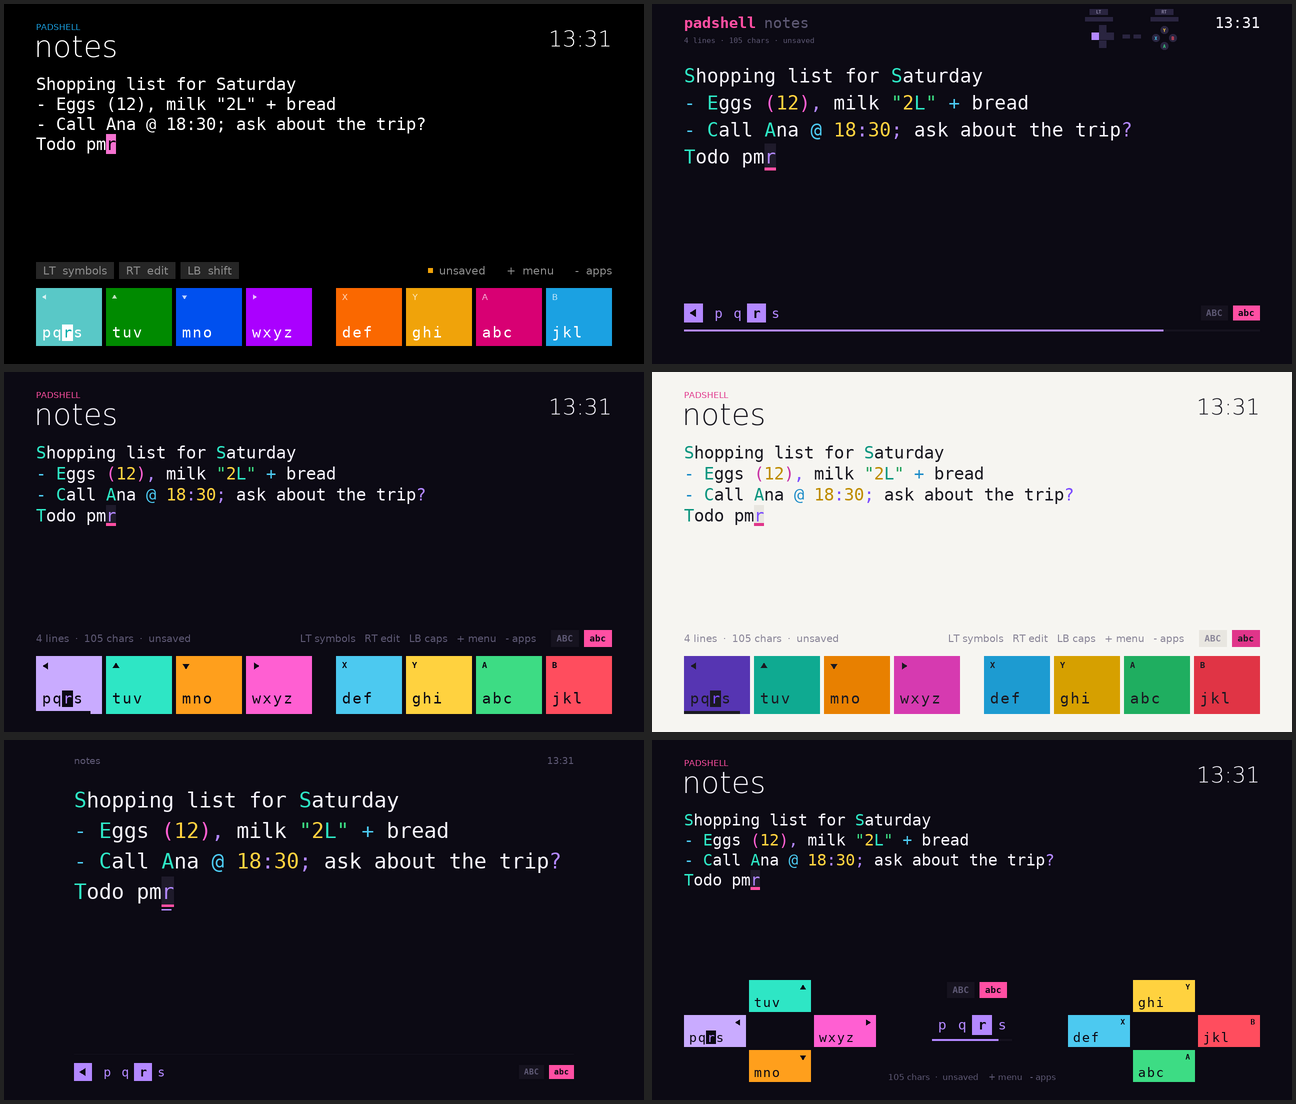
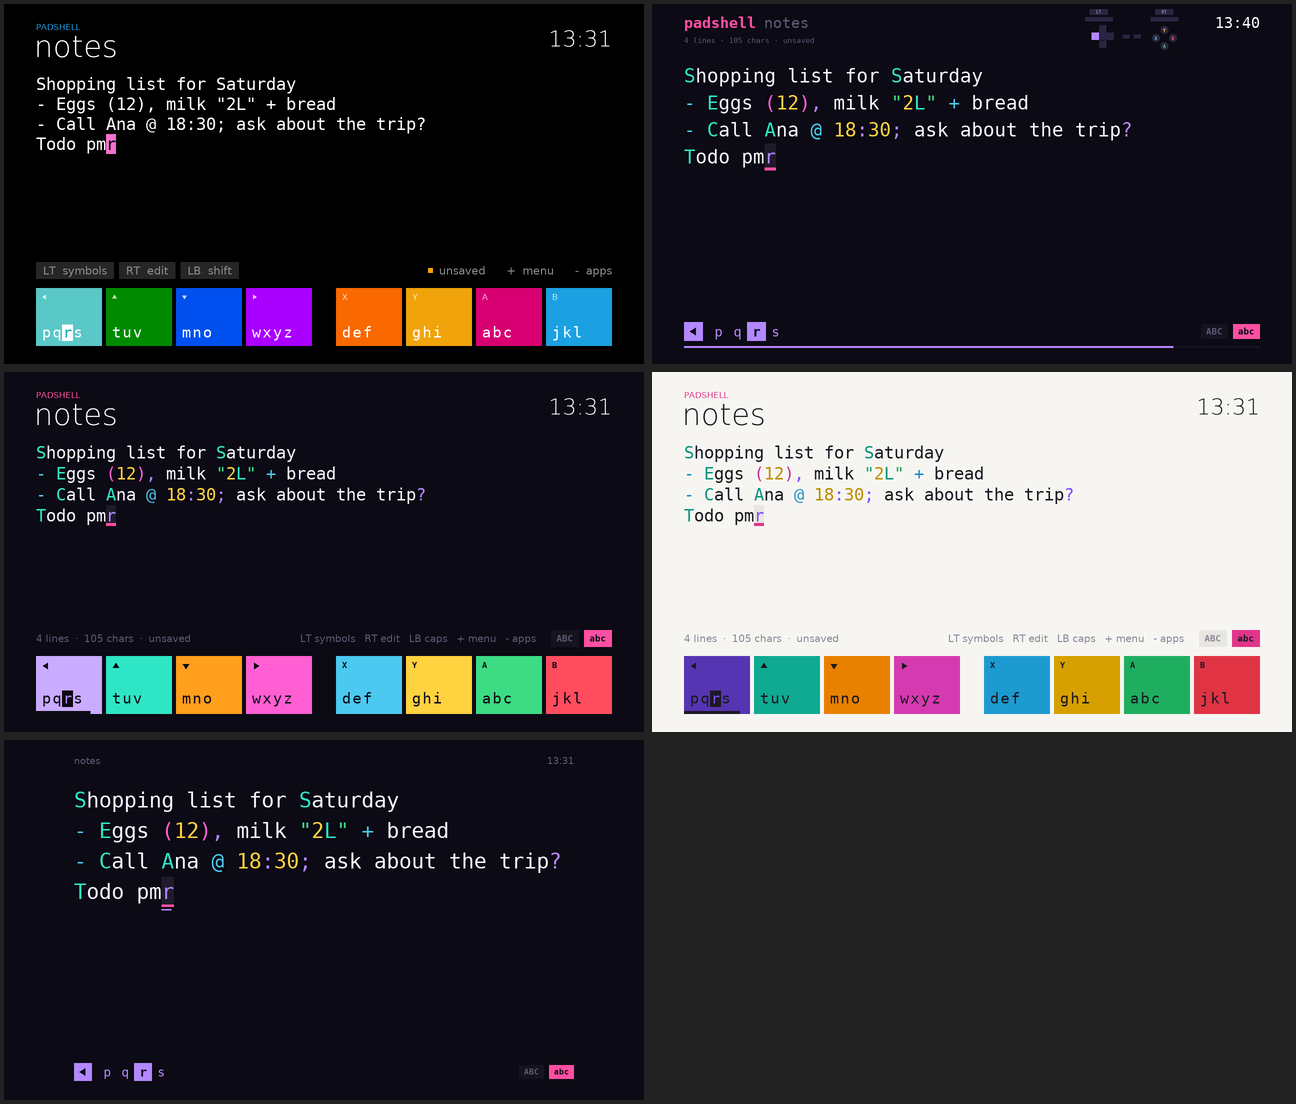
Remove the cross skin; move ameno's status bar down to the margin
The ameno badges row now sits just inside the TV-safe bottom margin with
the commit timer below it, and the document gains a line.

diff --git a/src/skins/ameno.cpp b/src/skins/ameno.cpp
@@ -12,7 +12,8 @@ using namespace fam;
 const Palette& P = darkPalette();
 const char* kMono = "DejaVuSansMono.ttf";
 const char* kBold = "DejaVuSansMono-Bold.ttf";
-constexpr int kM = 64;  // side margin
+constexpr int kM = 64;        // side margin
+constexpr int kStatusY = 640;  // badges row; timer below it, just inside the TV-safe bottom margin
 
 class Ameno : public Skin {
 public:
@@ -40,13 +41,13 @@ public:
                P.muted);
 
         Font& f = g.font(kMono, 38);
-        document(g, {kM, 117, a.w, 427}, v, P, {&f, 54, 6});
+        document(g, {kM, 117, a.w, 486}, v, P, {&f, 54, 6});
 
         status(g, v);
     }
 
     void menu(Gfx& g, const std::string& title, const std::vector<std::string>& items, int sel) override {
-        g.fill({0, 100, Gfx::W, 467}, P.bg);
+        g.fill({0, 100, Gfx::W, kStatusY - 116}, P.bg);
         g.draw(g.font(kMono, 21), kM, 127, title, P.muted);
         Font& f = g.font(kMono, 38), &fb = g.font(kBold, 38);
         int y = 180;
@@ -57,9 +58,9 @@ public:
             y += 72;
         }
         // Status line becomes the menu's hints.
-        g.fill({0, 587, Gfx::W, 133}, P.bg);
+        g.fill({0, kStatusY - 16, Gfx::W, Gfx::H - kStatusY + 16}, P.bg);
         Font& sf = g.font(kMono, 20);
-        int x = kM, y0 = 603, s = 30;
+        int x = kM, y0 = kStatusY, s = 30;
         auto hint = [&](std::initializer_list<Btn> bs, const char* what) {
             for (Btn b : bs) { badge(g, x, y0, s, b, buttonColor(b), P.dark); x += s + 4; }
             x += 4 + g.draw(sf, x + 4, y0 + (s - sf.lineH()) / 2, what, P.text) + 24;
@@ -72,7 +73,7 @@ public:
 
 private:
     void status(Gfx& g, const EditorView& v) {
-        const int y = 603, s = 30;
+        const int y = kStatusY, s = 30;
         Font& f = g.font(kMono, 20);
         if (v.tap->hasPending()) {
             Btn b = pendingButton(v);
@@ -84,9 +85,9 @@ private:
         modeTags(g, Gfx::W - kM, y, s, g.font(kBold, 18), v, P);
 
         // Commit timer.
-        g.fill({kM, 651, Gfx::W - 2 * kM, 4}, P.surface);
+        g.fill({kM, kStatusY + 44, Gfx::W - 2 * kM, 4}, P.surface);
         if (float t = timerLeft(v); t > 0)
-            g.fill({kM, 651, (int)((Gfx::W - 2 * kM) * t), 4}, buttonColor(pendingButton(v)));
+            g.fill({kM, kStatusY + 44, (int)((Gfx::W - 2 * kM) * t), 4}, buttonColor(pendingButton(v)));
     }
 
     // A small controller diagram; held buttons light up in their colour.

diff --git a/src/skin.cpp b/src/skin.cpp
@@ -42,7 +42,6 @@ Skin* makeAmeno();
 Skin* makeKeys();
 Skin* makeLight();
 Skin* makeFocus();
-Skin* makeCross();
 
 namespace skins {
 namespace {
@@ -52,7 +51,7 @@ std::string g_path;
 
 const std::vector<Skin*>& all() {
     static const std::vector<Skin*> list = {makeMetro(), makeAmeno(), makeKeys(),
-                                            makeLight(), makeFocus(), makeCross()};
+                                            makeLight(), makeFocus()};
     return list;
 }
 

diff --git a/README.md b/README.md
@@ -19,7 +19,7 @@ indicates the current mode.
 
 ## Styles
 
-Six variations on one Metro-style design, picked in the − app menu:
+Five variations on one Metro-style design, picked in the − app menu:
 highlight *style* and press A, or D-pad left/right, to cycle while the menu
 stays open as a preview. The choice is saved in `settings.ini` next to the
 notes.
@@ -33,7 +33,6 @@ notes.
 | **keys** | Metro's layout where every tile keeps its button's own colour in all modes; the mode shows in the cursor and tags, and a bar on the pending tile counts down to the commit. |
 | **light** | The same as keys in a light, daytime theme. |
 | **focus** | Distraction-free: a quiet top line and a large centred column of text. The status line stays muted while you write and comes up in colour when you act; the commit timer sits under the pending character. |
-| **cross** | Tiles arranged like the controller: a D-pad cross on the left and a face-button diamond on the right, with the mode tags, the cycle and its timer between them. |
 
 All but metro share the ameno conventions (`src/skins/family.h`):
 
